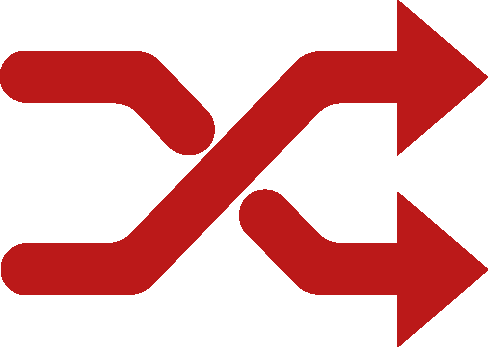
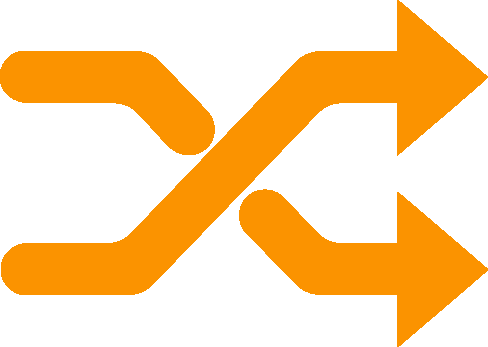
shuffle button filter

diff --git a/src/lib/components/frontComps.jsx b/src/lib/components/frontComps.jsx
@@ -198,7 +198,9 @@ class FrontComps extends React.Component {
           <Shuffle shuffle={ this.state.shuffle } clickHandler={ ()=>{
             let shuffleBool = this.state.shuffle;
             this.setState({shuffle: !shuffleBool});
-          } }/>
+          } }
+            filterDeg={ this.globalFilterDig }
+          />
           <div className="addFilesDiv">
             <AddFiles filePassFunc={(playlist)=>{
               let updateAudioBool = false;
@@ -217,7 +219,6 @@ class FrontComps extends React.Component {
         </div>
         <BackGroundPic playing={ this.state.playing } passFilterDig={ (n)=>{
             this.globalFilterDig = n;
-            console.log(this.globalFilterDig)
           }}/>
         <TrackName name={ this.state.trackName } />
         <div className="trackTimeInfo">

diff --git a/src/lib/components/front/shuffle.jsx b/src/lib/components/front/shuffle.jsx
@@ -1,15 +1,13 @@
 import React from 'react';
 
-export const Shuffle = ({clickHandler, shuffle}) => {
-  return(
-      <img className='shuffle' src={
-            (()=>{
-              if (shuffle)
-                return ('images/shuffle1.png');
-              return ('images/shuffle0.png');
-            })()
-        }
-      onClick={ clickHandler }
-      />
+export const Shuffle = ({clickHandler, shuffle, filterDeg}) => {
+  if (shuffle){
+    return (
+      <img className='shuffle' style={{filter: `hue-rotate(${filterDeg}deg)`}}
+       src='images/shuffle1.png' onClick={ clickHandler }></img>
+    )
+  }
+  return (
+    <img className='shuffle' src='images/shuffle0.png' onClick={ clickHandler }></img>
   )
 }
